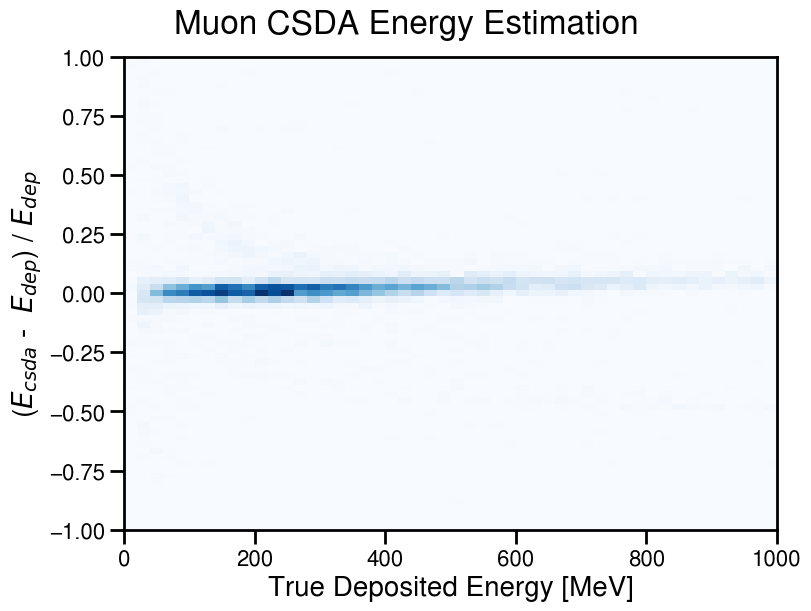
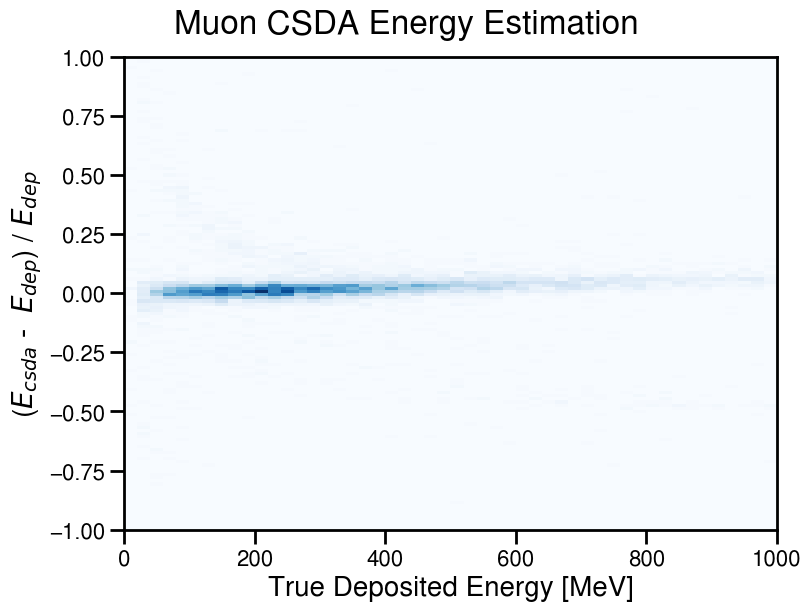
Increased binning for 2D muon bias plot

Changed region(s): [[0.185, 0.4354, 0.6165, 0.4975], [0.6165, 0.4354, 0.6473, 0.4664]]

diff --git a/analysis.C b/analysis.C
@@ -107,7 +107,7 @@ void analysis()
     */
     spectra.add_spectrum2d("sCSDA_muon", Binning::Simple(50, 0, 1000), Binning::Simple(50, 0, 1000), kCSDATruth_muon, kCSDA_muon);
     spectra.add_spectrum2d("sCSDA_muon2muon", Binning::Simple(50, 0, 1000), Binning::Simple(50, 0, 1000), kCSDATruth_muon, kCSDA_muon2muon);
-    spectra.add_spectrum2d("sCSDA_muon_bias2d", Binning::Simple(50, 0, 1000), Binning::Simple(50,-1,1), kCSDATruth_muon, kCSDA_muon_bias);
+    spectra.add_spectrum2d("sCSDA_muon_bias2d", Binning::Simple(50, 0, 1000), Binning::Simple(150,-1,1), kCSDATruth_muon, kCSDA_muon_bias);
     spectra.add_spectrum1d("sCSDA_muon_bias", Binning::Simple(75,-1,1), kCSDA_muon_bias);
     spectra.add_spectrum1d("sCCOverlap", Binning::Simple(50, 0, 1), kCCOverlap);
     spectra.add_spectrum1d("sNonCCOverlap", Binning::Simple(50, 0, 1), kNonCCOverlap);
